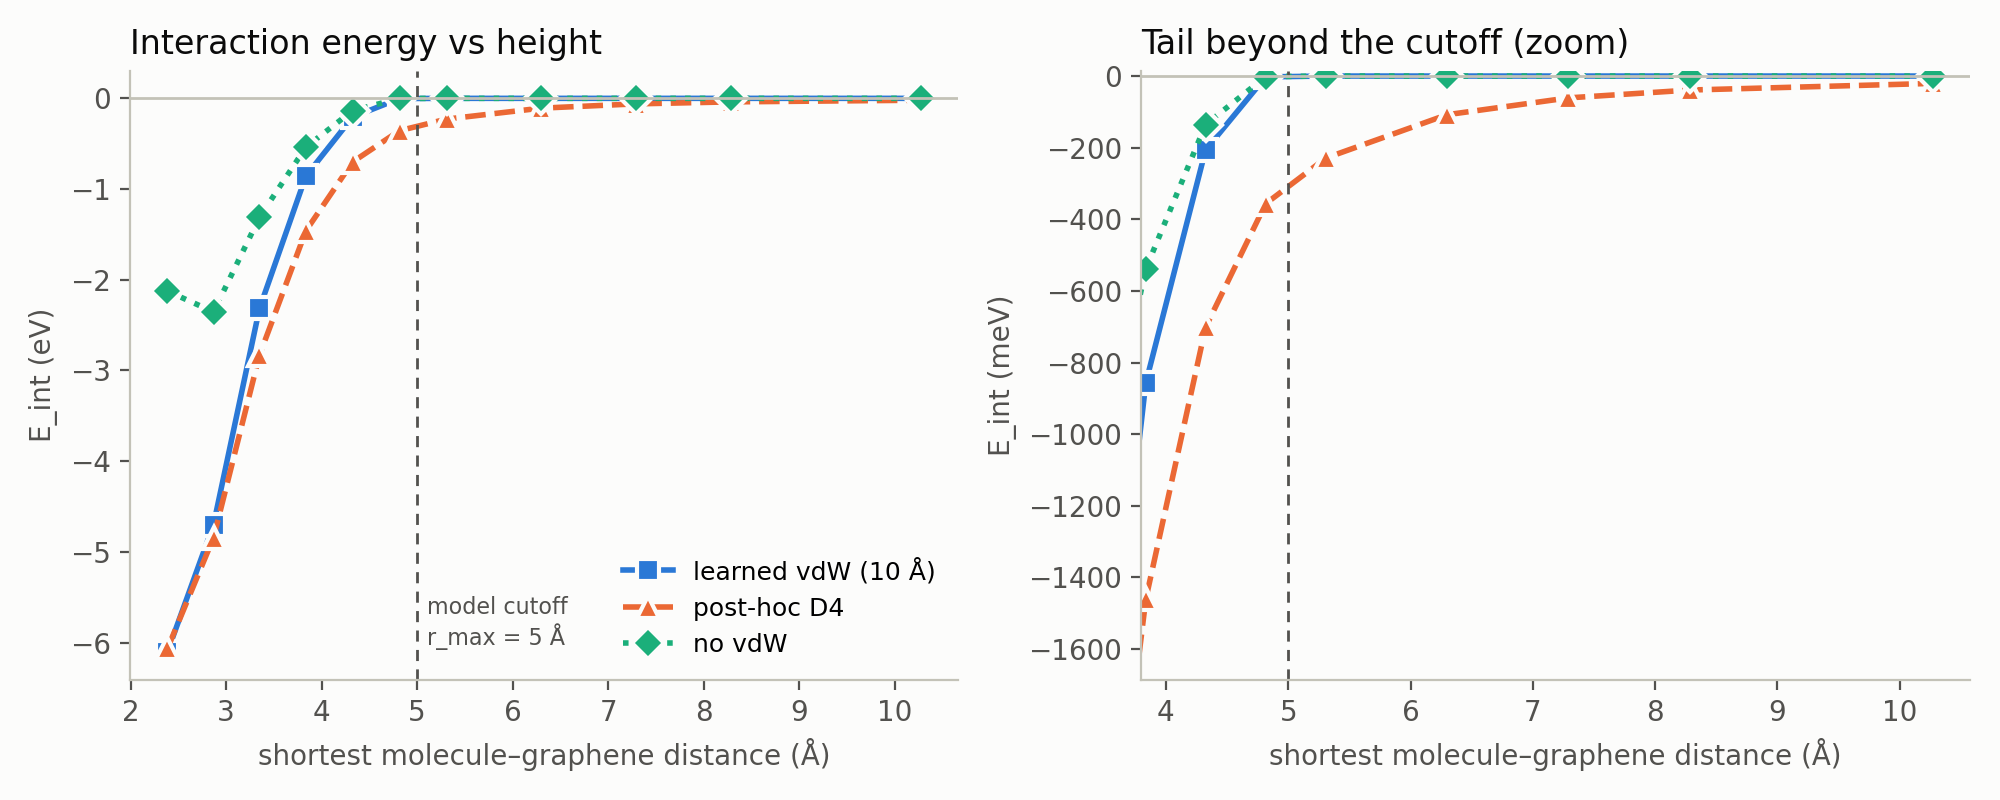
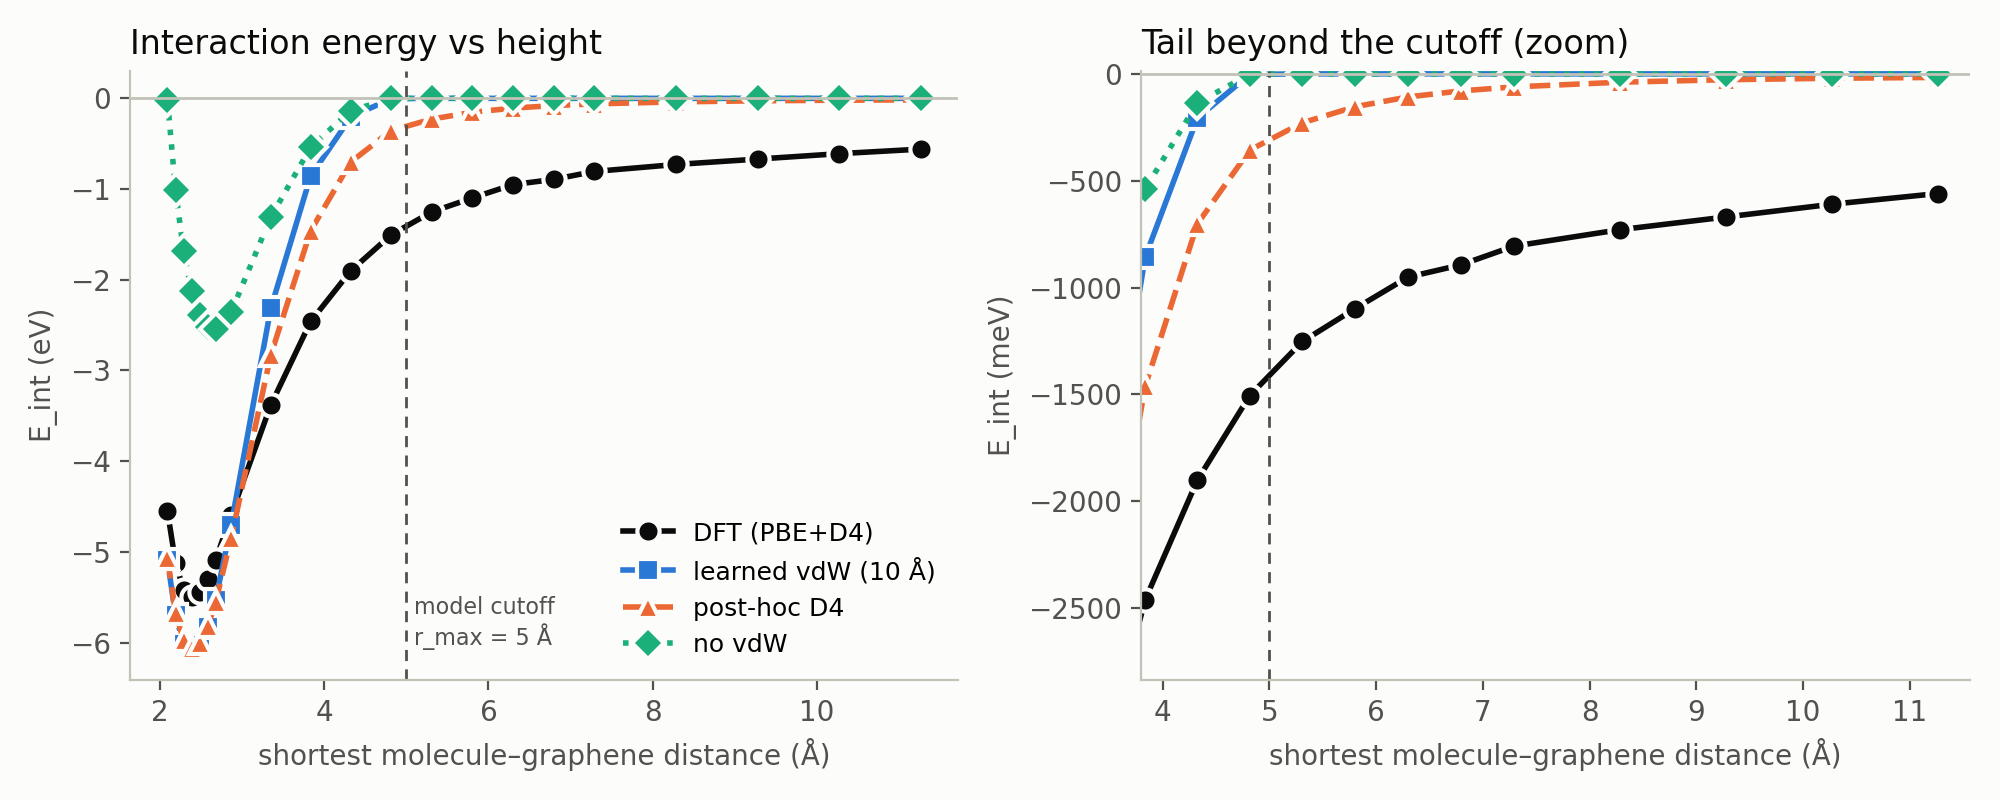
Height scan: add DFT results, Fig. 4-style plots and charge-transfer check

diff --git a/07_height_scan/plot_fig4_style.py b/07_height_scan/plot_fig4_style.py
@@ -1,0 +1,136 @@
+"""
+Height-scan binding curve in the style of Fig. 4 of Solé et al., arXiv:2605.25710 (2026):
+E_int vs distance for DFT and the three model variants, with an inset zoomed on the well.
+Reads eint_height_scan.csv (written by compute_eint.py); the DFT curve appears once its jobs are done.
+
+  python plot_fig4_style.py            E_int, molecule reference = frozen molecule in the slab cell
+                                       -> eint_fig4_style.png
+  python plot_fig4_style.py --isolated molecule reference = relaxed isolated molecule, i.e. the same
+                                       E_ads convention as ../dispersion_inference/eads_per_cell_m11.png
+                                       -> eads_profile_fig4_style.png
+"""
+import csv
+import os
+import sys
+
+import matplotlib
+matplotlib.use("Agg")
+import matplotlib.pyplot as plt
+import numpy as np
+from mpl_toolkits.axes_grid1.inset_locator import mark_inset
+
+HERE = os.path.dirname(os.path.abspath(__file__))
+R_MAX = 5.0
+# column in the CSV, legend label, colour, marker, line width
+SERIES = [("learned vdW (10 Å)", "learned vdW (10 Å)", "#2a78d6", "s", 2),
+          ("post-hoc D4", "post-hoc D4", "#eb6834", "^", 2),
+          ("no vdW", "no vdW", "#1baf7a", "D", 2),
+          ("DFT (PBE+D4)", "DFT (PBE+D4)", "#9a9a9a", "o", 5)]
+WELL = (2.0, 3.0)   # inset x range (Å)
+D = "/scratch/johnt447/azin/analysis/ads_eng_calc"
+# CSV column -> (height-scan result dir, relaxed isolated molecule used for E_ads)
+ISOLATED = {
+    "DFT (PBE+D4)": ("dft", f"{D}/DFT/isolated_adsorbate/relaxed_results/isolated_adsorbate/"
+                            "isolated_adsorbate_system_relaxed.xyz"),
+    "learned vdW (10 Å)": ("mace/m11_d4trained", f"{D}/dispersion_inference/m11_d4trained/molecule/isolated_adsorbate.extxyz"),
+    "post-hoc D4": ("mace/m11nod4_d4", f"{D}/dispersion_inference/m11nod4_d4/molecule/isolated_adsorbate.extxyz"),
+    "no vdW": ("mace/m11nod4", f"{D}/dispersion_inference/m11nod4/molecule/isolated_adsorbate.extxyz"),
+}
+
+
+def isolated_offset(col):
+    """E_mol(frozen, slab cell) - E_mol(relaxed, isolated), in eV: added to E_int it gives E_ads(dh)."""
+    from ase.io import read
+    d, iso = ISOLATED[col]
+    return (read(os.path.join(HERE, d, "molecule.extxyz")).get_potential_energy()
+            - read(iso).get_potential_energy())
+
+
+def dft_d4_part(rows, isolated):
+    """D4 part of the DFT curve (eV): e_d4(system) - e_d4(substrate) - e_d4(molecule), using the D4
+    energies stored by dft_calc.py. With --isolated the molecule term is the relaxed isolated
+    molecule, whose file has no stored D4: it is computed once with dftd4 (needs module gpaw/25.7.0)
+    and cached in dft/isolated_molecule_d4.json, so later runs work without the module."""
+    import json
+    from ase.io import read
+    d = os.path.join(HERE, "dft")
+    sub = read(os.path.join(d, "substrate.extxyz")).info["e_d4"]
+    if isolated:
+        cache = os.path.join(d, "isolated_molecule_d4.json")
+        if os.path.exists(cache):
+            with open(cache) as f:
+                mol = json.load(f)["e_d4"]
+        else:
+            from dftd4.ase import DFTD4   # module load gpaw/25.7.0
+            src = ISOLATED["DFT (PBE+D4)"][1]
+            m = read(src)
+            m.calc = DFTD4(method="PBE")
+            mol = m.get_potential_energy()
+            with open(cache, "w") as f:
+                json.dump({"e_d4": mol, "source": src, "method": "DFTD4(method='PBE')"}, f, indent=1)
+    else:
+        mol = read(os.path.join(d, "molecule.extxyz")).info["e_d4"]
+    y = []
+    for r in rows:
+        p = os.path.join(d, f"scan_dh{float(r['dh']):.1f}.extxyz")
+        y.append(read(p).info["e_d4"] - sub - mol if os.path.exists(p) else np.nan)
+    return np.array(y)
+
+
+def main():
+    isolated = "--isolated" in sys.argv
+    with open(os.path.join(HERE, "eint_height_scan.csv")) as f:
+        rows = list(csv.DictReader(f))
+    x = np.array([float(r["d_min"]) for r in rows])
+    data = {}
+    for col, *_ in SERIES:
+        y = np.array([float(r[col]) if r[col] else np.nan for r in rows])
+        if not np.all(np.isnan(y)):
+            data[col] = y + isolated_offset(col) if isolated else y
+
+    fig, ax = plt.subplots(figsize=(8, 5.2))
+    ins = ax.inset_axes([0.50, 0.14, 0.45, 0.48])
+    for col, label, color, mk, lw in SERIES:
+        if col not in data:
+            continue
+        ok = ~np.isnan(data[col])
+        z = 1 if col.startswith("DFT") else 2
+        for a in (ax, ins):
+            a.plot(x[ok], data[col][ok], color=color, lw=lw, marker=mk, ms=5 if a is ax else 6,
+                   mec="white", mew=0.8, label=label, zorder=z)
+
+    if "DFT (PBE+D4)" in data:
+        yd4 = dft_d4_part(rows, isolated)
+        ok = ~np.isnan(yd4)
+        for a in (ax, ins):
+            a.plot(x[ok], yd4[ok], color="#6f6f6f", lw=2, ls=(0, (5, 2)),
+                   label="DFT, D4 part only", zorder=1.5)
+
+    ax.axvline(R_MAX, color="#52514e", lw=1, ls=(0, (4, 3)), zorder=0)
+    ax.text(R_MAX + 0.08, -2.7 if isolated else -0.6, "model cutoff\n(5 Å)", color="#52514e",
+            fontsize=9, va="top")
+    ax.axhline(0, color="#c3c2b7", lw=0.8, zorder=0)
+    ax.set_xlim(2.0, x.max() + 0.2)
+    ax.set_xticks(np.arange(2, 12))
+    ax.set_xlabel("Shortest molecule–graphene distance [Å]")
+    ax.set_ylabel("Adsorption energy [eV]" if isolated else "Interaction energy [eV]")
+
+    sel = (x >= WELL[0]) & (x <= WELL[1])
+    ys = np.concatenate([data[c][sel] for c in data if c != "no vdW"])
+    ys = ys[~np.isnan(ys)]
+    ins.set_xlim(*WELL)
+    ins.set_ylim(ys.min() - 0.15, ys.max() + 0.15)
+    ins.set_xlabel("Distance [Å]", fontsize=9)
+    ins.set_ylabel("Energy [eV]", fontsize=9)
+    ins.tick_params(labelsize=8)
+    mark_inset(ax, ins, loc1=1, loc2=3, fc="none", ec="#52514e", lw=0.8, ls="--")
+
+    ax.legend(loc="upper center", bbox_to_anchor=(0.5, -0.13), ncol=3, frameon=True, fontsize=9)
+    fig.tight_layout()
+    stem = "eads_profile_fig4_style" if isolated else "eint_fig4_style"
+    for ext in ("png",):
+        fig.savefig(os.path.join(HERE, f"{stem}.{ext}"), dpi=200)
+
+
+if __name__ == "__main__":
+    main()

diff --git a/07_height_scan/dft_ct_check.py b/07_height_scan/dft_ct_check.py
@@ -1,0 +1,50 @@
+"""
+Charge-transfer check for the height scan (see README.md): the PBE part of the DFT E_int does not
+decay (-0.54 eV at 11 A) and the z-dipole grows linearly with height, i.e. ~0.3 e stays transferred.
+Recompute one far lift and its references with the scan settings except:
+
+  w001       Fermi-Dirac width 0.01 eV (scan: 0.1 eV), spin-paired
+  w001_spin  same, spin-polarized; initial moments 0.5 on the molecule's N atoms to break symmetry
+
+  python dft_ct_check.py <setting> <in.extxyz>   ->  dft_ct_check/<setting>/<base>.extxyz + .log
+
+Otherwise identical to ../multilayer_test/dft_calc.py sp: GPAW PW(500), PBE, k 2x2x1, energy
+convergence 1e-6, DFTD4(method='PBE') via SumCalculator. info: e_pbe, e_d4, dipole_z, magmom.
+"""
+import os
+import sys
+
+from ase.calculators.mixing import SumCalculator
+from ase.io import read, write
+from dftd4.ase import DFTD4
+from gpaw import GPAW, PW, FermiDirac
+
+N_GRAPHENE = 128
+setting, inp = sys.argv[1], sys.argv[2]
+outdir = os.path.join("dft_ct_check", setting)
+os.makedirs(outdir, exist_ok=True)
+base = os.path.splitext(os.path.basename(inp))[0]
+out = os.path.join(outdir, f"{base}.extxyz")
+if os.path.exists(out):
+    print(f"{out} exists, nothing to do")
+    sys.exit(0)
+
+atoms = read(inp)
+spin = setting.endswith("_spin")
+if spin:
+    off = 0 if base == "molecule" else N_GRAPHENE
+    mm = [0.5 if (i >= off and s == "N") else 0.0 for i, s in enumerate(atoms.get_chemical_symbols())]
+    atoms.set_initial_magnetic_moments(mm)
+
+gpaw = GPAW(mode=PW(500), xc="PBE", kpts=(2, 2, 1), convergence={"energy": 1e-6},
+            occupations=FermiDirac(0.01), spinpol=spin, txt=os.path.join(outdir, f"{base}.log"))
+d4 = DFTD4(method="PBE")
+atoms.calc = SumCalculator([gpaw, d4])
+e = atoms.get_potential_energy()
+atoms.get_forces()
+atoms.info.update(e_pbe=gpaw.get_potential_energy(atoms), e_d4=d4.get_potential_energy(atoms),
+                  dipole_z=float(gpaw.get_dipole_moment()[2]),
+                  magmom=float(gpaw.get_magnetic_moment()) if spin else 0.0, setting=setting)
+write(out, atoms, format="extxyz")
+print(f"{setting} {base}: E = {e:.6f} eV (PBE {atoms.info['e_pbe']:.6f}, D4 {atoms.info['e_d4']:.6f}), "
+      f"dipole_z {atoms.info['dipole_z']:.3f} e*A, magmom {atoms.info['magmom']:.3f}")

diff --git a/07_height_scan/build_geometries.py b/07_height_scan/build_geometries.py
@@ -1,7 +1,8 @@
 """
 Height scan: the DFT-relaxed molecule of one candidate cell is lifted rigidly along z by dh above
 its relaxed position on single-layer graphene (see README.md). The box is enlarged from 24 to 37 A
-(graphene stays at the same z) so the largest lift still has >= 10 A vacuum above the molecule.
+(graphene stays at the same z) so the largest lift (9 A) still has >= 9.9 A vacuum above the molecule.
+EXTRA_SHIFTS were added later (separate DFT job, list dft_inputs_extra.txt); negative = pushed down.
 Writes geometries/scan_dh<dh>.extxyz, plus substrate.extxyz and molecule.extxyz (molecule alone,
 dh = 0, same cell and pbc, so in-plane image interactions cancel in E_int).
 """
@@ -14,6 +15,8 @@ D = "/scratch/johnt447/azin/analysis/ads_eng_calc/DFT"
 CELL = "m-8_n0_m-6_n-8"
 N_ADS, BOX_Z = 126, 37.0
 SHIFTS = [0.0, 0.5, 1.0, 1.5, 2.0, 2.5, 3.0, 4.0, 5.0, 6.0, 8.0]
+# added for a Fig. 4-style curve (Solé et al. 2026): the repulsive side of the well and tail gaps
+EXTRA_SHIFTS = [-0.3, -0.2, -0.1, 0.1, 0.2, 0.3, 3.5, 4.5, 7.0, 9.0]
 OUT = os.path.join(os.path.dirname(os.path.abspath(__file__)), "geometries")
 
 s = read(f"{D}/unitcell_candidates/DFT_relaxed/{CELL}/{CELL}_system_relaxed.xyz")
@@ -27,13 +30,13 @@ g.set_constraint(FixAtoms(indices=range(n)))
 write(f"{OUT}/substrate.extxyz", g, format="extxyz")
 write(f"{OUT}/molecule.extxyz", m, format="extxyz")
 
-for dh in SHIFTS:
+for dh in SHIFTS + EXTRA_SHIFTS:
     mm = m.copy()
     mm.translate([0, 0, dh])
     a = g + mm
     a.set_constraint(FixAtoms(indices=range(n)))
     top = a.positions[:, 2].max()
-    assert BOX_Z - top >= 10.0, "not enough vacuum above the molecule"
+    assert BOX_Z - top >= 9.5, "not enough vacuum above the molecule"
     gap = mm.positions[:, 2].min() - g.positions[:, 2].max()
     write(f"{OUT}/scan_dh{dh:.1f}.extxyz", a, format="extxyz")
     print(f"dh {dh:4.1f} A: min molecule-graphene z gap {gap:5.2f} A, vacuum above {BOX_Z - top:5.2f} A")

diff --git a/07_height_scan/compute_eint.py b/07_height_scan/compute_eint.py
@@ -31,7 +31,7 @@ def E(p):
 
 
 def main():
-    shifts = sorted(float(re.search(r"dh([\d.]+)\.extxyz", f).group(1))
+    shifts = sorted(float(re.search(r"dh(-?[\d.]+)\.extxyz", f).group(1))
                     for f in glob.glob(os.path.join(HERE, "geometries", "scan_dh*.extxyz")))
     dmin = {}
     for dh in shifts:

diff --git a/07_height_scan/README.md b/07_height_scan/README.md
@@ -7,11 +7,36 @@ distribution for every model).
 and compute E_int = E_system − E_substrate − E_molecule(frozen, same cell) at each height.
 model11 has r_max = 5 Å and 2 interactions; across the empty gap there are no intermediate atoms,
 so once the shortest molecule–graphene distance exceeds 5 Å the learned model's E_int is exactly 0.
-DFT (PBE+D4) and post-hoc D4 keep a ~1/d⁴ tail.
+Post-hoc D4 keeps a ~1/d⁴ tail.
 
-**Setup.** Lifts dh = 0–8 Å; box enlarged 24 → 37 Å (graphene at the same z, ≥ 10.9 Å vacuum above
-the molecule). DFT: GPAW PW500/PBE/k221 + D4 via `../multilayer_test/dft_calc.py`.
+**Setup.** 21 lifts, dh = −0.3 to 9 Å (`SHIFTS` + `EXTRA_SHIFTS` in `build_geometries.py`); the
+negative lifts and 0.1–0.3 Å resolve the well. Box enlarged 24 → 37 Å (graphene at the same z,
+≥ 9.9 Å vacuum above the molecule). DFT: GPAW PW500/PBE/k221 + D4 via `../multilayer_test/dft_calc.py`
+(jobs 2488833 and 2497123, all converged).
 
-Files: `build_geometries.py` → `geometries/`; `job_dft.slurm` → `dft/`; `run_mace.sh` → `mace/`
-(login node, 4 threads: the D4 variant segfaults on compute nodes); `compute_eint.py` →
-`eint_height_scan.csv`, `eint_height_scan.png`.
+## Result
+
+- Beyond 5 Å the learned model gives exactly 0; post-hoc D4 equals the D4 part of DFT exactly.
+- The full DFT curve has an extra slowly decaying tail (PBE part −0.54 eV at 11 Å). It is charge
+  transfer, not dispersion: the adsorbate (C56H62N8, tetrakis(4-trimethylammoniophenyl)porphyrin)
+  is a 4+ cation modelled as neutral by choice, so its 4 extra electrons sit in high-lying levels
+  (top levels −1.5 eV vs graphene Fermi level −3.3 eV) and ~0.3 e moves to graphene at every height
+  (z-dipole grows linearly with dh). Not a smearing/spin artefact: `dft_ct_check.py`
+  (job 2549195; FD width 0.01 eV, spin-polarized) gives the same PBE tail (−0.50 / −0.49 eV at dh 9).
+- Reference choice matters: with the frozen-molecule-in-cell reference the models are 0.6 eV deeper
+  than DFT at the minimum; with the relaxed isolated molecule (the E_ads convention of
+  `../dispersion_inference/eads_per_cell_m11.png`) the well agrees to 0.1 eV.
+
+## Files
+
+- `build_geometries.py` → `geometries/`; `dft_inputs.txt` (13) and `dft_inputs_extra.txt` (10)
+- `job_dft.slurm` → `dft/` (extra lifts: `sbatch --array=0-9 --export=ALL,LIST=dft_inputs_extra.txt job_dft.slurm`)
+- `run_mace.sh` → `mace/` (login node, 4 threads: the D4 variant segfaults on compute nodes)
+- `compute_eint.py` → `eint_height_scan.csv`, `eint_height_scan.png`
+- `plot_fig4_style.py` → Fig. 4-style plot (Solé et al., arXiv:2605.25710), with DFT's D4 part dashed:
+  - default: interaction energy → `eint_fig4_style.png`
+  - `--isolated`: adsorption energy, relaxed isolated molecule as reference →
+    `eads_profile_fig4_style.png`. The isolated molecule's D4 energy is cached in
+    `dft/isolated_molecule_d4.json`; if that file is deleted, run `module load gpaw/25.7.0` first
+    (dftd4 is needed to recompute it).
+- `dft_ct_check.py`, `job_ct_check.slurm` → `dft_ct_check/` (charge-transfer check)

diff --git a/README.md b/README.md
@@ -43,7 +43,7 @@ Each folder contains the scripts, the Slurm job file, and the results (summary, 
 
 | # | Folder | Result | Conclusion |
 |---|---|---|---|
-| 7 | `07_height_scan` | Molecule lifted rigidly off the graphene: beyond a 5 Å gap the learned model gives exactly zero interaction, while post-hoc D4 keeps an attractive tail (−229 meV at 5.3 Å, −21 meV at 10.3 Å). DFT reference pending. | The receptive field matters only away from the adsorbed geometry |
+| 7 | `07_height_scan` | Molecule lifted rigidly off the graphene (21 heights, DFT at every point): beyond a 5 Å gap the learned model gives exactly zero interaction, while post-hoc D4 keeps an attractive tail (−229 meV at 5.3 Å, −17 meV at 11.3 Å) that equals the D4 part of DFT exactly. At the minimum both models agree with DFT to 0.1 eV (adsorption-energy reference). The full DFT curve has an additional slow tail from charge transfer, a consequence of modelling the 4+ porphyrin as neutral (see the folder README). | The receptive field matters only away from the adsorbed geometry |
 
 ## Caveats
 
